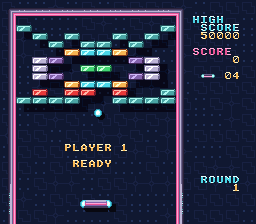
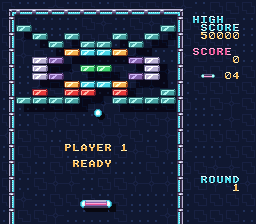
feat(examples): breakout's cabinet is steel with a channel of cyan light
The cabinet of games/breakout was a one-tile magenta line on the sides
and on the top, and a speaker grille whose lit pixels were scattered and
jagged along the bottom of the screen. It is now a dark steel beam and
wall with a channel of cyan light and a bracket across it every 16
pixels, drawn pixel by pixel in devtools/art_assets/breakout.py. The beam
is six tiles in a row that meet end to start, the wall four tiles that
meet top to bottom, and the right side is the left one mirrored by the
map, as before. No picture of an existing game was used: the look comes
from the project's own art charter and a three-way mock-up the owner
chose from. The tile numbering, the map's layout and the playfield did
not change.

Checked: make art-assets changes only breakout's files (bg1map.bin,
tiles.png); the example builds; make tests ALL CHECKS PASSED (liveness
58 OK / 2 INPUT-DEP / 0 DEAD, the manifests movement_breakout and
state_breakout_game_over, audio 7/7), make docs-strict and lint-docs
clean.

Baselines re-captured, drift explained: games_breakout.png (the frame
itself, looked at) and wram.json for games/breakout (the BG1 tilemap copy
in far RAM holds the new frame's tile numbers).

What to look at by hand: games/breakout, from the title through a round:
the cabinet's sides and top, and that the ball and the bricks still read
against them.

Changed region(s): [[0.0312, 0.0312, 0.7188, 1.0]]

diff --git a/devtools/art_assets/breakout.py b/devtools/art_assets/breakout.py
@@ -6,9 +6,9 @@ drawn here in that layout:
 
 - tiles.png, 128 4bpp tiles in a 16x8 sheet, shared by BG1 (VRAM $1000) and
   the sprites' second name table, which reads the same words: 0 blank,
-  1 the cabinet's corner, 2-7 its top edge, 8 its sides (the right
-  ones are the left ones mirrored by the map), 9-12 a
-  speaker grille on the sides, 13-14 a brick (ui/brick.png, PixelLab: its
+  1 the cabinet's corner, 2-7 its top beam (six tiles that repeat without a
+  seam), 8-11 its side (four tiles that repeat without a seam, the right
+  side is the left one mirrored by the map), 12 unused, 13-14 a brick (ui/brick.png, PixelLab: its
   three greys become colours 13-15 of whichever BG palette the map entry
   names, one palette per brick colour; its top row is empty, the joint
   between two rows of bricks), 15-17 the
@@ -109,29 +109,63 @@ def brick(art: Path) -> list[list[int]]:
              for x in range(16)] for y in range(8)]
 
 
+# The cabinet's drawing alphabet, to CABINET's colour numbers: 0 the ink, 1-4 the steel from
+# dark to light, w a white glint, c / C the cyan of the light channel, t teal
+CAB_INDEX = {".": 0, "0": 1, "1": 2, "2": 3, "3": 4, "4": 5, "m": 6, "n": 7, "t": 8, "C": 9, "c": 11, "w": 12}
+
+
+def cabinet_wall() -> list[list[str]]:
+    """The cabinet's side, 8x32 (four tiles, meeting top to bottom): dark steel with a channel of
+    cyan light down its middle, and a bracket across it every 16 pixels. Drawn here."""
+    rows = []
+    for r in range(32):
+        k = r % 16
+        if k < 3:                                   # the bracket: a groove, a bevel, a glint
+            rows.append(["01111110", "04444320", "04wwww20"][k])
+        elif k == 3:
+            rows.append("02111120")
+        else:                                       # the channel, its two lights alternating
+            rows.append("0421cc20" if k % 2 else "0421Cc20")
+    g = [list(r) for r in rows]
+    for y in range(32):
+        if y % 16 in (1, 2):
+            g[y][2], g[y][5] = "4", "3"
+    return g
+
+
+def cabinet_beam() -> list[list[str]]:
+    """The cabinet's top beam, 48x8 (six tiles, meeting end to start): the same channel of light
+    along it, and a bracket every 16 pixels. Drawn here."""
+    g = [list(r) for r in ("0" * 48, "4" * 48, "3" * 48, "1" * 48, "cC" * 24, "c" * 48, "2" * 48, "0" * 48)]
+    lit = ["0", "4", "w", "3", "3", "2", "1", "0"]
+    plain = ["0", "4", "4", "3", "3", "2", "1", "0"]
+    for p in range(3):
+        for y in range(1, 7):
+            for x in range(p * 16, p * 16 + 4):
+                g[y][x] = lit[y] if x in (p * 16 + 1, p * 16 + 2) else plain[y]
+    return g
+
+
 def tiles(art: Path, font: dict[str, list[int]]) -> Image.Image:
     sheet = Image.new("P", (128, 64), 0)
     sheet.putpalette([v for c in palette() for v in c])
-    k = {".": 0, "0": 1, "1": 2, "2": 3, "3": 4, "4": 5, "m": 6, "n": 7, "t": 8, "g": 9}
-    # the top edge: a steel beam with a magenta neon tube; 2-6 and 7 are the
-    # same beam with a bolt at a different place, so the repeats do not show
-    beam = ["11111111", "22222222", "33333333", "44444444", "33333333", "mmmmmmmm", "nnnnnnnn", "mmmmmmmm"]
-    for n, bolt in zip(range(2, 8), (1, 6, 3, 0, 4, 2)):
-        rows = list(beam)
-        rows[2] = rows[2][:bolt] + "4" + rows[2][bolt + 1:]
-        _put(sheet, n, rows, k)
-    # the sides (the right one is the map's mirror of the left), and a
-    # speaker grille on them (9-12, then 9 again)
-    side = "12343mnm"
-    _put(sheet, 8, [side] * 8, k)
-    _put(sheet, 9, ["12443mnm"] * 8, k)
-    for n in (10, 11, 12):
-        _put(sheet, n, ["12443mnm", "1t443mnm", "12443mnm", "1g443mnm", "12443mnm", "1t443mnm", "12443mnm", "12443mnm"], k)
+    # the top beam (2-7) and the side (8-11); the right side is the left one mirrored by the map
+    beam, wall = cabinet_beam(), cabinet_wall()
+    for n in range(6):
+        for y in range(8):
+            for x in range(8):
+                sheet.putpixel((((2 + n) % 16) * 8 + x, y), CAB_INDEX[beam[y][n * 8 + x]])
+    for n in range(4):
+        for y in range(8):
+            for x in range(8):
+                sheet.putpixel((((8 + n) % 16) * 8 + x, (8 + n) // 16 * 8 + y), CAB_INDEX[wall[n * 8 + y][x]])
     # the corner: the beam above its diagonal, the side below it, rounded
-    corner = [[(beam[y][x] if x >= y else side[x]) for x in range(8)] for y in range(8)]
-    for x, y in ((0, 0), (1, 0), (0, 1)):
-        corner[y][x] = "."
-    _put(sheet, 1, ["".join(r) for r in corner], k)
+    for y in range(8):
+        for x in range(8):
+            v = CAB_INDEX[beam[y][x] if x >= y else wall[y][x]]
+            if (x, y) in ((0, 0), (1, 0), (0, 1)):
+                v = 0
+            sheet.putpixel((8 + x, y), v)
     # the brick, 16x8 in two tiles (13 its left half, 14 its right)
     for y, row in enumerate(brick(art)):
         for x, v in enumerate(row):
@@ -205,11 +239,9 @@ def bg1map() -> bytes:
     m[32 * 1 + 1] = 1
     m[32 * 1 + 22] = 1 | flip
     for x in range(2, 22):
-        m[32 * 1 + x] = 2 + (x * 7) % 6
+        m[32 * 1 + x] = 2 + (x - 2) % 6
     for y in range(2, 28):
-        tile = 8
-        if 23 <= y <= 27:
-            tile = (9, 10, 11, 12, 9)[y - 23]
+        tile = 8 + (y - 2) % 4
         m[32 * y + 1] = tile
         m[32 * y + 22] = tile | flip
 

diff --git a/CHANGELOG.md b/CHANGELOG.md
@@ -108,6 +108,13 @@ All notable changes to OpenSNES are documented in this file.
   declares did not compile.
 
 ### Changed
+- feat(examples): `games/breakout`'s cabinet is steel with a channel of cyan
+  light. The top beam and the sides were a thin magenta line and a speaker
+  grille whose lit pixels were scattered and jagged at the bottom of the
+  screen; they are now a dark steel beam and wall with a cyan light channel
+  and a bracket every 16 pixels, drawn pixel by pixel in
+  `devtools/art_assets/breakout.py` (no picture of an existing game was
+  used). The tile numbering and the playfield are unchanged.
 - perf(runtime): `__mul16` (a 16-bit multiply the compiler cannot turn
   into shifts) skips each partial product whose high byte is 0, so a
   multiplier or multiplicand under 256 costs one or two hardware multiplies
